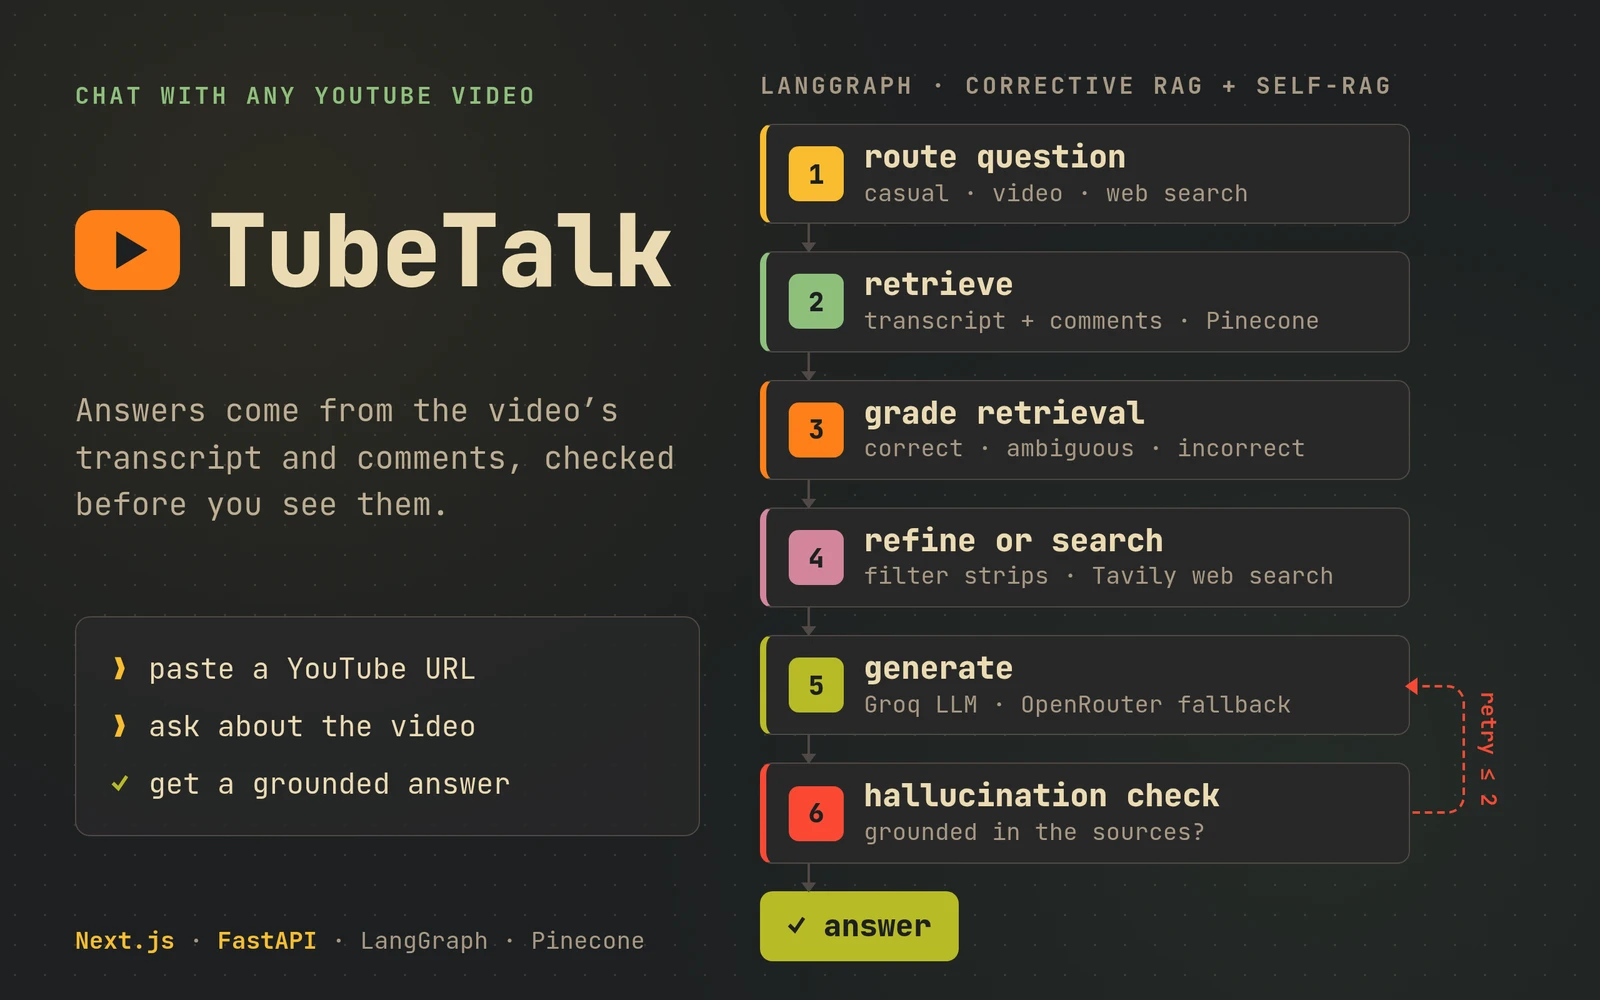
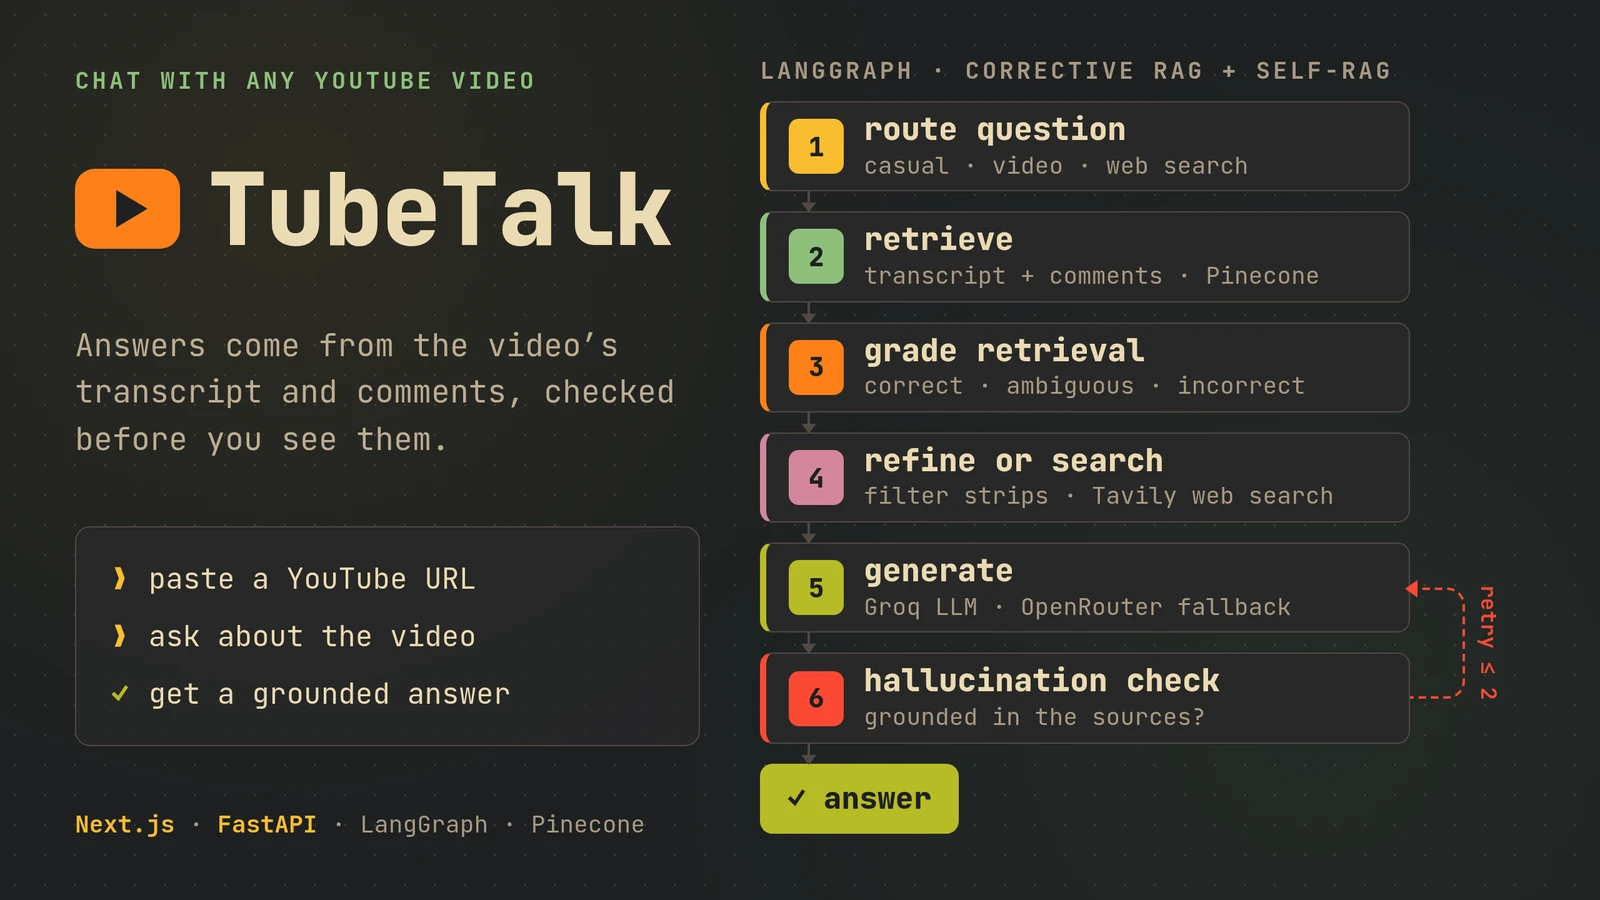
feat(projects): expand project showcase with new screenshots and 16:9 preview layout

diff --git a/src/data/projects.ts b/src/data/projects.ts
@@ -1,6 +1,8 @@
 import type { Project } from './types';
 
-// Source: resume, "Projects". Links and years from github.com/saurabhduhariya.
+// Sources: resume "Projects" (Switchyard, TubeTalk, Clawback) and each repo's README on
+// github.com/saurabhduhariya (the rest). Ordered best first: real users, then depth and polish
+// (tests, live demo, measured results), then size. See docs/DECISIONS.md D-034.
 export const projects: Project[] = [
   {
     slug: 'switchyard',
@@ -26,6 +28,39 @@ export const projects: Project[] = [
     year: 2026,
   },
   {
+    slug: 'cargoverity',
+    name: 'CargoVerity',
+    summary: 'AI reader and cross-checker for customs shipment documents',
+    stack: [
+      'TypeScript',
+      'Next.js',
+      'React',
+      'Supabase',
+      'PostgreSQL',
+      'Prisma',
+      'Groq',
+      'Zod',
+      'Vitest',
+      'Playwright',
+    ],
+    points: [
+      'Every field keeps its source quote and page',
+      'Six cross-checks with exact decimal maths',
+      '1,000+ unit, integration and e2e tests',
+    ],
+    highlights: [
+      'Reads a shipment’s commercial invoice, packing list and bill of lading with a vision model and keeps the source quote, page and confidence for every field. Low-confidence or missing values must be confirmed, corrected or entered by hand.',
+      'Six fixed cross-check rules (line arithmetic, gross weight, package count, invoice against packing list quantities, gross against net weight, exporter name) run in plain TypeScript with decimal.js, so results are repeatable.',
+      'Every edit creates a new revision. A Manager approves one exact revision and only that revision can be exported as CSV. Roles are enforced on the server; files sit in a private bucket behind 5-minute signed links.',
+      '927 unit, 80 integration and 27 end-to-end tests (Vitest, Playwright). CI runs lint, typecheck, schema validation, unit tests and build.',
+    ],
+    links: [
+      { label: 'GitHub', url: 'https://github.com/saurabhduhariya/CargoVerity' },
+      { label: 'Live demo', url: 'https://cargo-verity-32o7.vercel.app' },
+    ],
+    year: 2026,
+  },
+  {
     slug: 'tubetalk',
     name: 'TubeTalk',
     summary: 'Corrective RAG over YouTube transcripts and comments',
@@ -41,6 +76,25 @@ export const projects: Project[] = [
       'Wrote a 10-case Pytest suite covering the 8 graph nodes and 2 FastAPI routes, stubbing the LLM, Pinecone and Tavily with unittest.mock.patch through shared fixtures.',
     ],
     links: [{ label: 'GitHub', url: 'https://github.com/saurabhduhariya/TubeTalk' }],
+    year: 2026,
+  },
+  {
+    slug: 'amazon-ml-challenge',
+    name: 'Amazon ML Challenge',
+    summary: 'Entity resolution across 12.5M business records',
+    metric: 'Macro F0.5 of 0.912 on the leaderboard',
+    stack: ['Python', 'scikit-learn', 'XGBoost', 'LightGBM', 'RapidFuzz', 'pandas'],
+    points: [
+      'Blocking drops 99.98% of pairs at 96% recall',
+      '17 name and address similarity features',
+      'XGBoost (GPU) + LightGBM ensemble',
+    ],
+    highlights: [
+      'Amazon ML Challenge 2026: match each of 2.2M business records against a pool of 10.3M records from two other sources. Scored with macro F0.5, which punishes a false merge more than a missed match.',
+      'Two blocking channels (character 3–5-gram TF-IDF, top 25 by cosine, and an inverted token index) cut comparisons by 99.98% while keeping 95.97% of true matches.',
+      '17 pairwise features (Levenshtein, Jaro-Winkler, token ratios, legal-suffix compatibility, address similarity and number overlap). XGBoost on GPU and LightGBM are trained on hard negatives from the blocking pool, their probabilities averaged and the threshold tuned for F0.5.',
+    ],
+    links: [{ label: 'GitHub', url: 'https://github.com/saurabhduhariya/amazon-ml-challenge' }],
     year: 2026,
   },
   {
@@ -63,5 +117,83 @@ export const projects: Project[] = [
       { label: 'Live demo', url: 'https://clawback-seven.vercel.app/' },
     ],
     year: 2026,
+  },
+  {
+    slug: 'agentslam',
+    name: 'AgentSlam',
+    summary: 'Autonomous debate agent for the Agent Slam 2026 contest',
+    stack: ['Python', 'asyncio', 'WebSockets', 'Groq', 'Tavily', 'OpenRouter', 'Pytest'],
+    points: [
+      'Plays 10-minute 1v1 debates over WebSockets',
+      'Extract, ground with web search, rebut',
+      'API key rotation and OpenRouter failover',
+    ],
+    highlights: [
+      'Connects to the tournament server over WebSockets and plays full 10-minute 1v1 debate matches on its own, within a 2-minute limit per turn. Built entirely on asyncio.',
+      'Each turn runs three steps: extract the opponent’s claims (Llama 3 8B on Groq), ground them with live web search (Tavily), and write the rebuttal (Llama 3 70B), with OpenRouter as failover.',
+      'Rotates through several API keys on rate limits, never repeats an argument or URL, and re-reads the chat history after a reconnect. 68 tests plus a 15-turn AI-vs-AI simulation.',
+    ],
+    links: [{ label: 'GitHub', url: 'https://github.com/saurabhduhariya/AgentSlam' }],
+    year: 2026,
+  },
+  {
+    slug: 'medileon',
+    name: 'Medileon',
+    summary: 'Health assistant that answers with generated, interactive UI',
+    stack: ['TypeScript', 'Next.js', 'Tambo AI', 'MCP', 'Tailwind CSS', 'Recharts', 'Zod'],
+    points: [
+      '21+ components the AI renders in the chat',
+      'MCP server with 7 health tools',
+      'Emergency screen on critical symptoms',
+    ],
+    highlights: [
+      'Built for the Tambo AI Hackathon. Instead of plain text, the assistant renders interactive components in the chat: symptom checker, medication cards, vitals charts, appointment booking, BMI calculator and more (21+).',
+      'Ships an MCP server with 7 tools (symptoms, urgency, BMI, drug interactions, medication info, search, health tips) that works inside the app or standalone.',
+      'Critical symptoms bring up a full-screen emergency view ahead of everything else. A dashboard shows vitals, medications and a wellness score.',
+    ],
+    links: [
+      { label: 'GitHub', url: 'https://github.com/saurabhduhariya/Medileon' },
+      { label: 'Live demo', url: 'https://medileon.vercel.app' },
+    ],
+    year: 2026,
+  },
+  {
+    slug: 'intellidesk',
+    name: 'IntelliDesk AI',
+    summary: 'AI triage for customer support tickets',
+    stack: ['TypeScript', 'Next.js', 'Express', 'MongoDB', 'Mongoose', 'n8n'],
+    points: [
+      'Classifies category, severity and sentiment',
+      'Matches FAQs by embedding similarity',
+      'Merges follow-up emails into one ticket',
+    ],
+    highlights: [
+      'Support emails become tickets. Each one is classified (category, P1–P3 severity, SLA, sentiment) by an ML service, with a safe default when the service is down.',
+      'Finds the best FAQ answer by cosine similarity over stored embeddings, with separate thresholds for full and partial matches, and drafts a reply from it.',
+      'Replies and follow-ups join the existing ticket, matched by ticket ID or by the same sender and subject within 48 hours. Next.js front end, Express and MongoDB back end.',
+    ],
+    links: [
+      { label: 'GitHub', url: 'https://github.com/saurabhduhariya/IntelliDesk-AI' },
+      { label: 'Live demo', url: 'https://intelli-desk-ai-rccz.vercel.app' },
+    ],
+    year: 2026,
+  },
+  {
+    slug: 'linux-log-chatbot',
+    name: 'Linux Log Chatbot',
+    summary: 'Chat with your Linux logs using a local LLM',
+    stack: ['Python', 'Ollama', 'ChromaDB', 'sentence-transformers', 'Streamlit', 'Textual'],
+    points: [
+      'Runs offline with Ollama (Phi-3)',
+      'Watches the log file, indexes new lines',
+      'Web UI (Streamlit) and terminal UI (Textual)',
+    ],
+    highlights: [
+      'Ask questions like “show me errors from the last hour”. Answers come from a local Phi-3 model through Ollama, so logs never leave the machine.',
+      'Embeds log lines with sentence-transformers into ChromaDB, stores each line’s timestamp for time-aware questions, and watches the file to index new entries as they arrive.',
+      'Two front ends: a Streamlit web dashboard and a Textual terminal UI.',
+    ],
+    links: [{ label: 'GitHub', url: 'https://github.com/saurabhduhariya/linux-log-chatbot' }],
+    year: 2025,
   },
 ];
